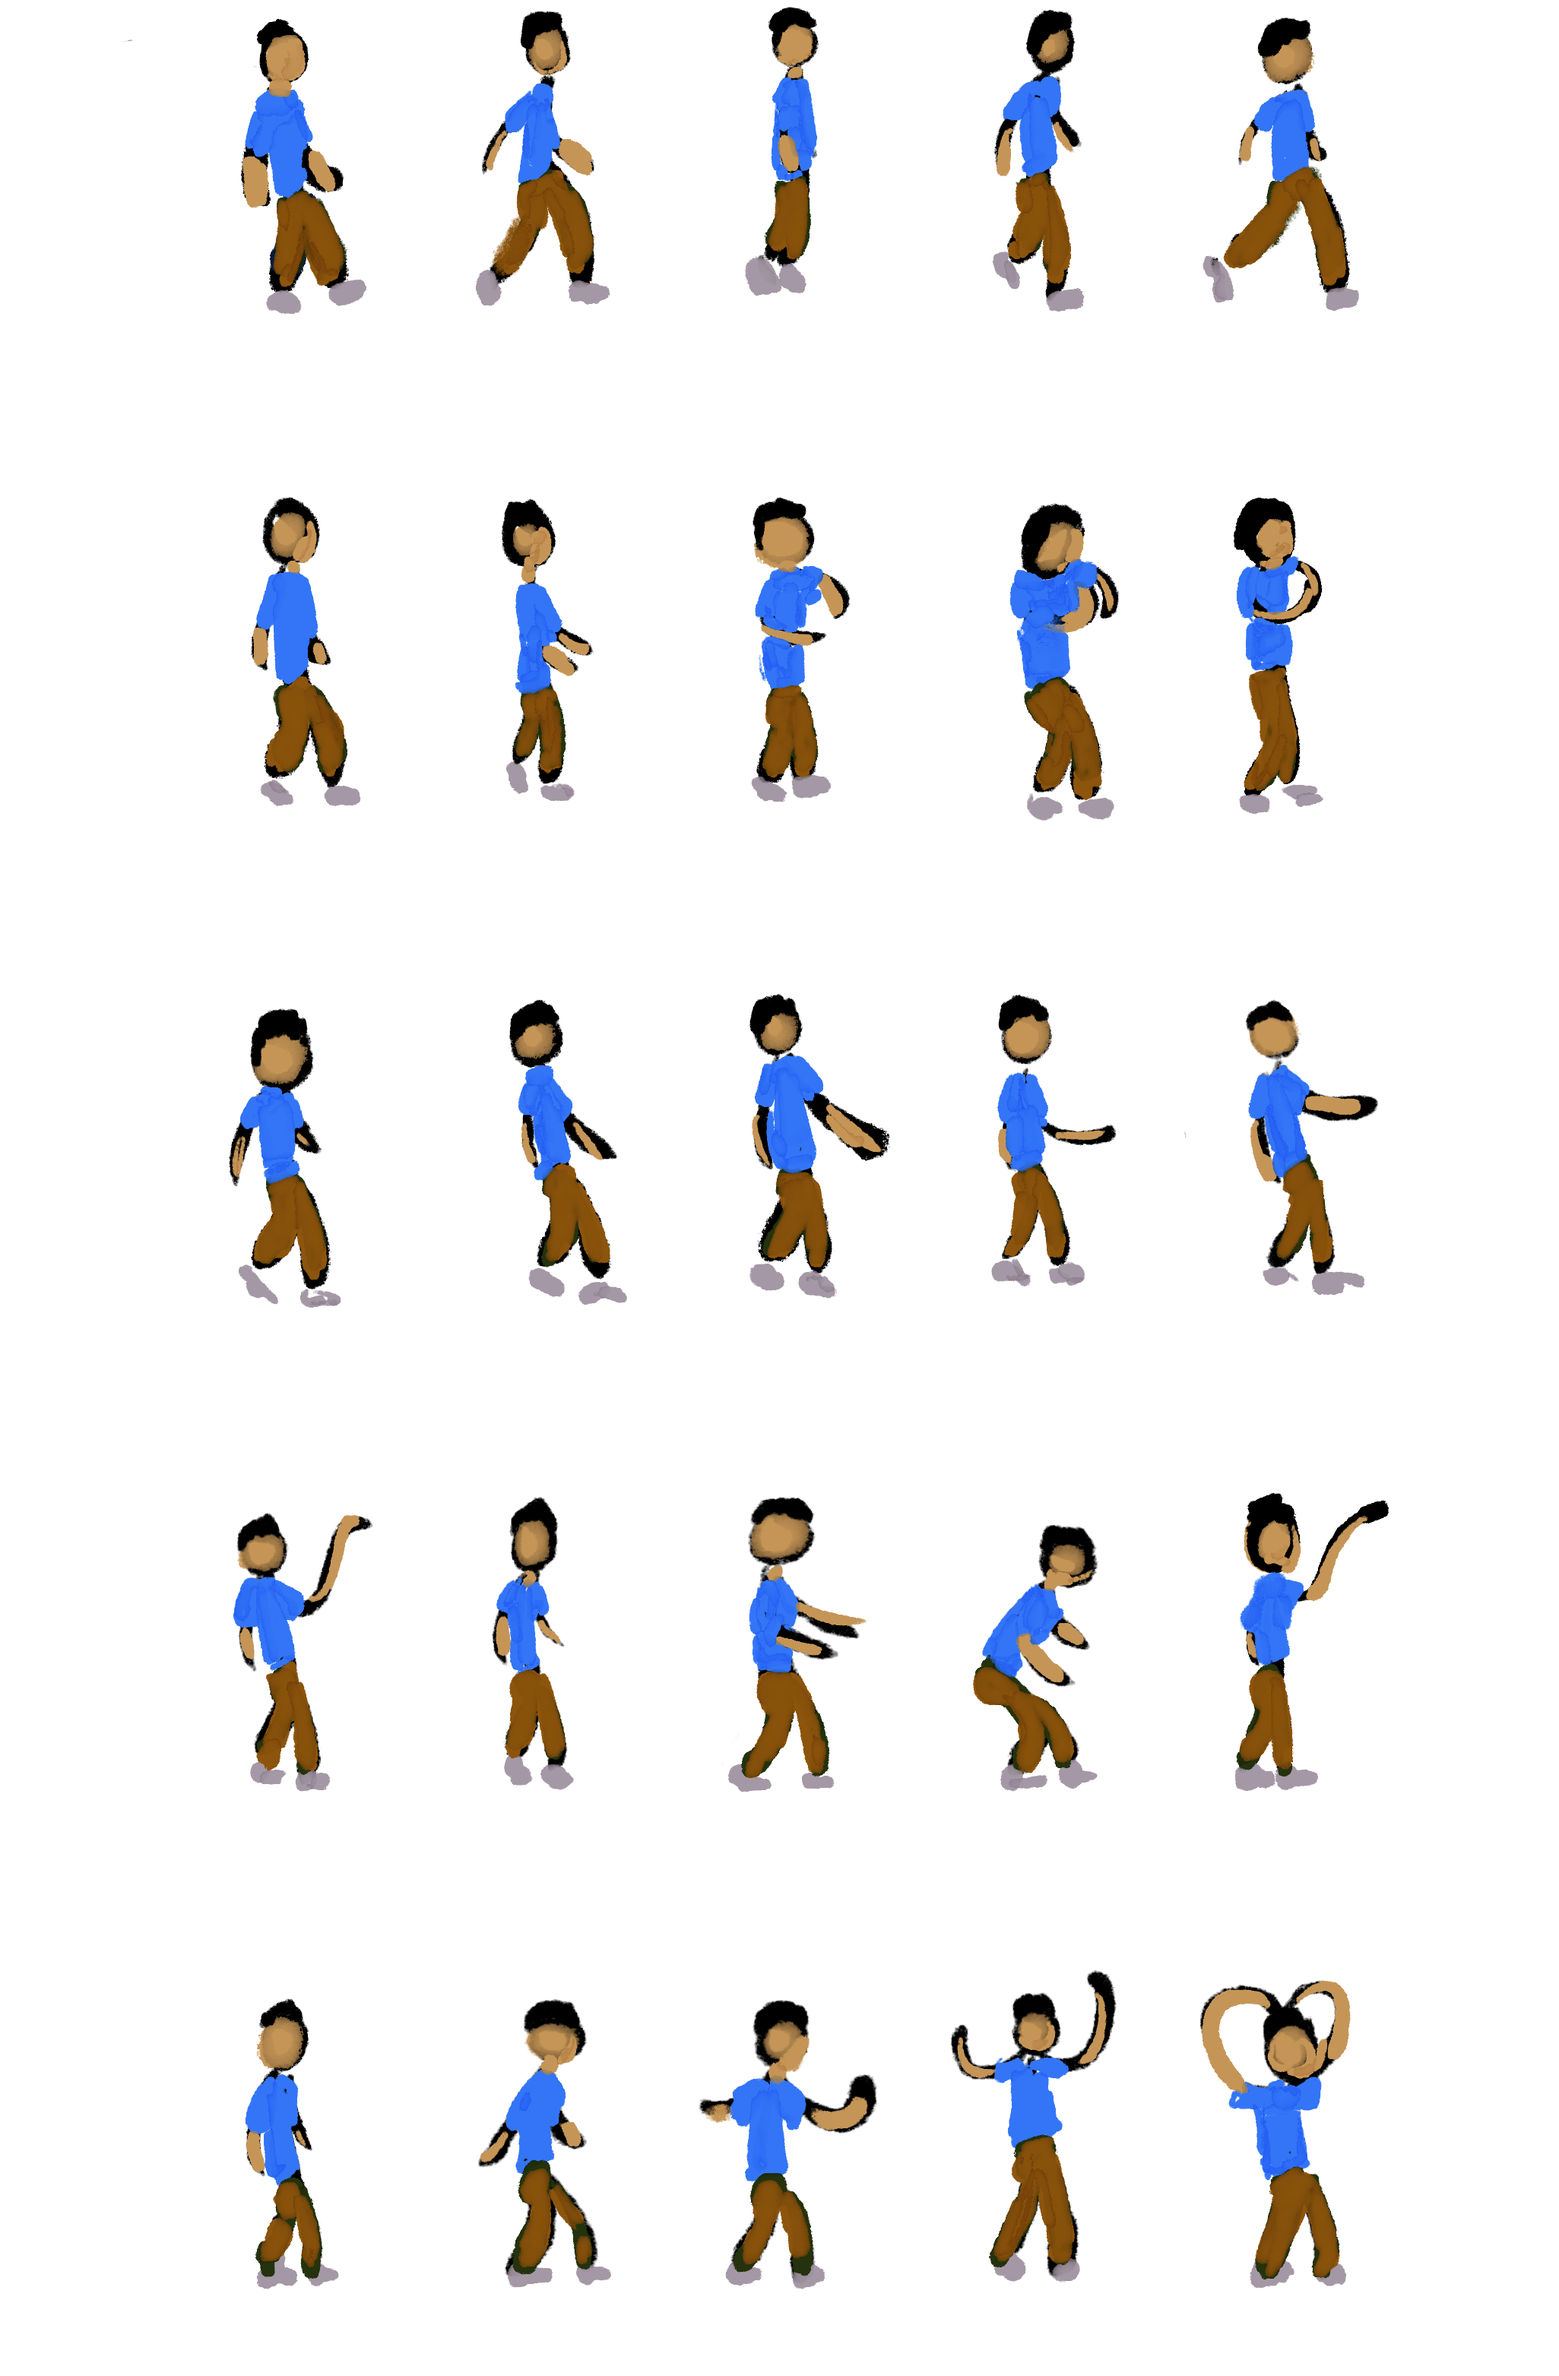
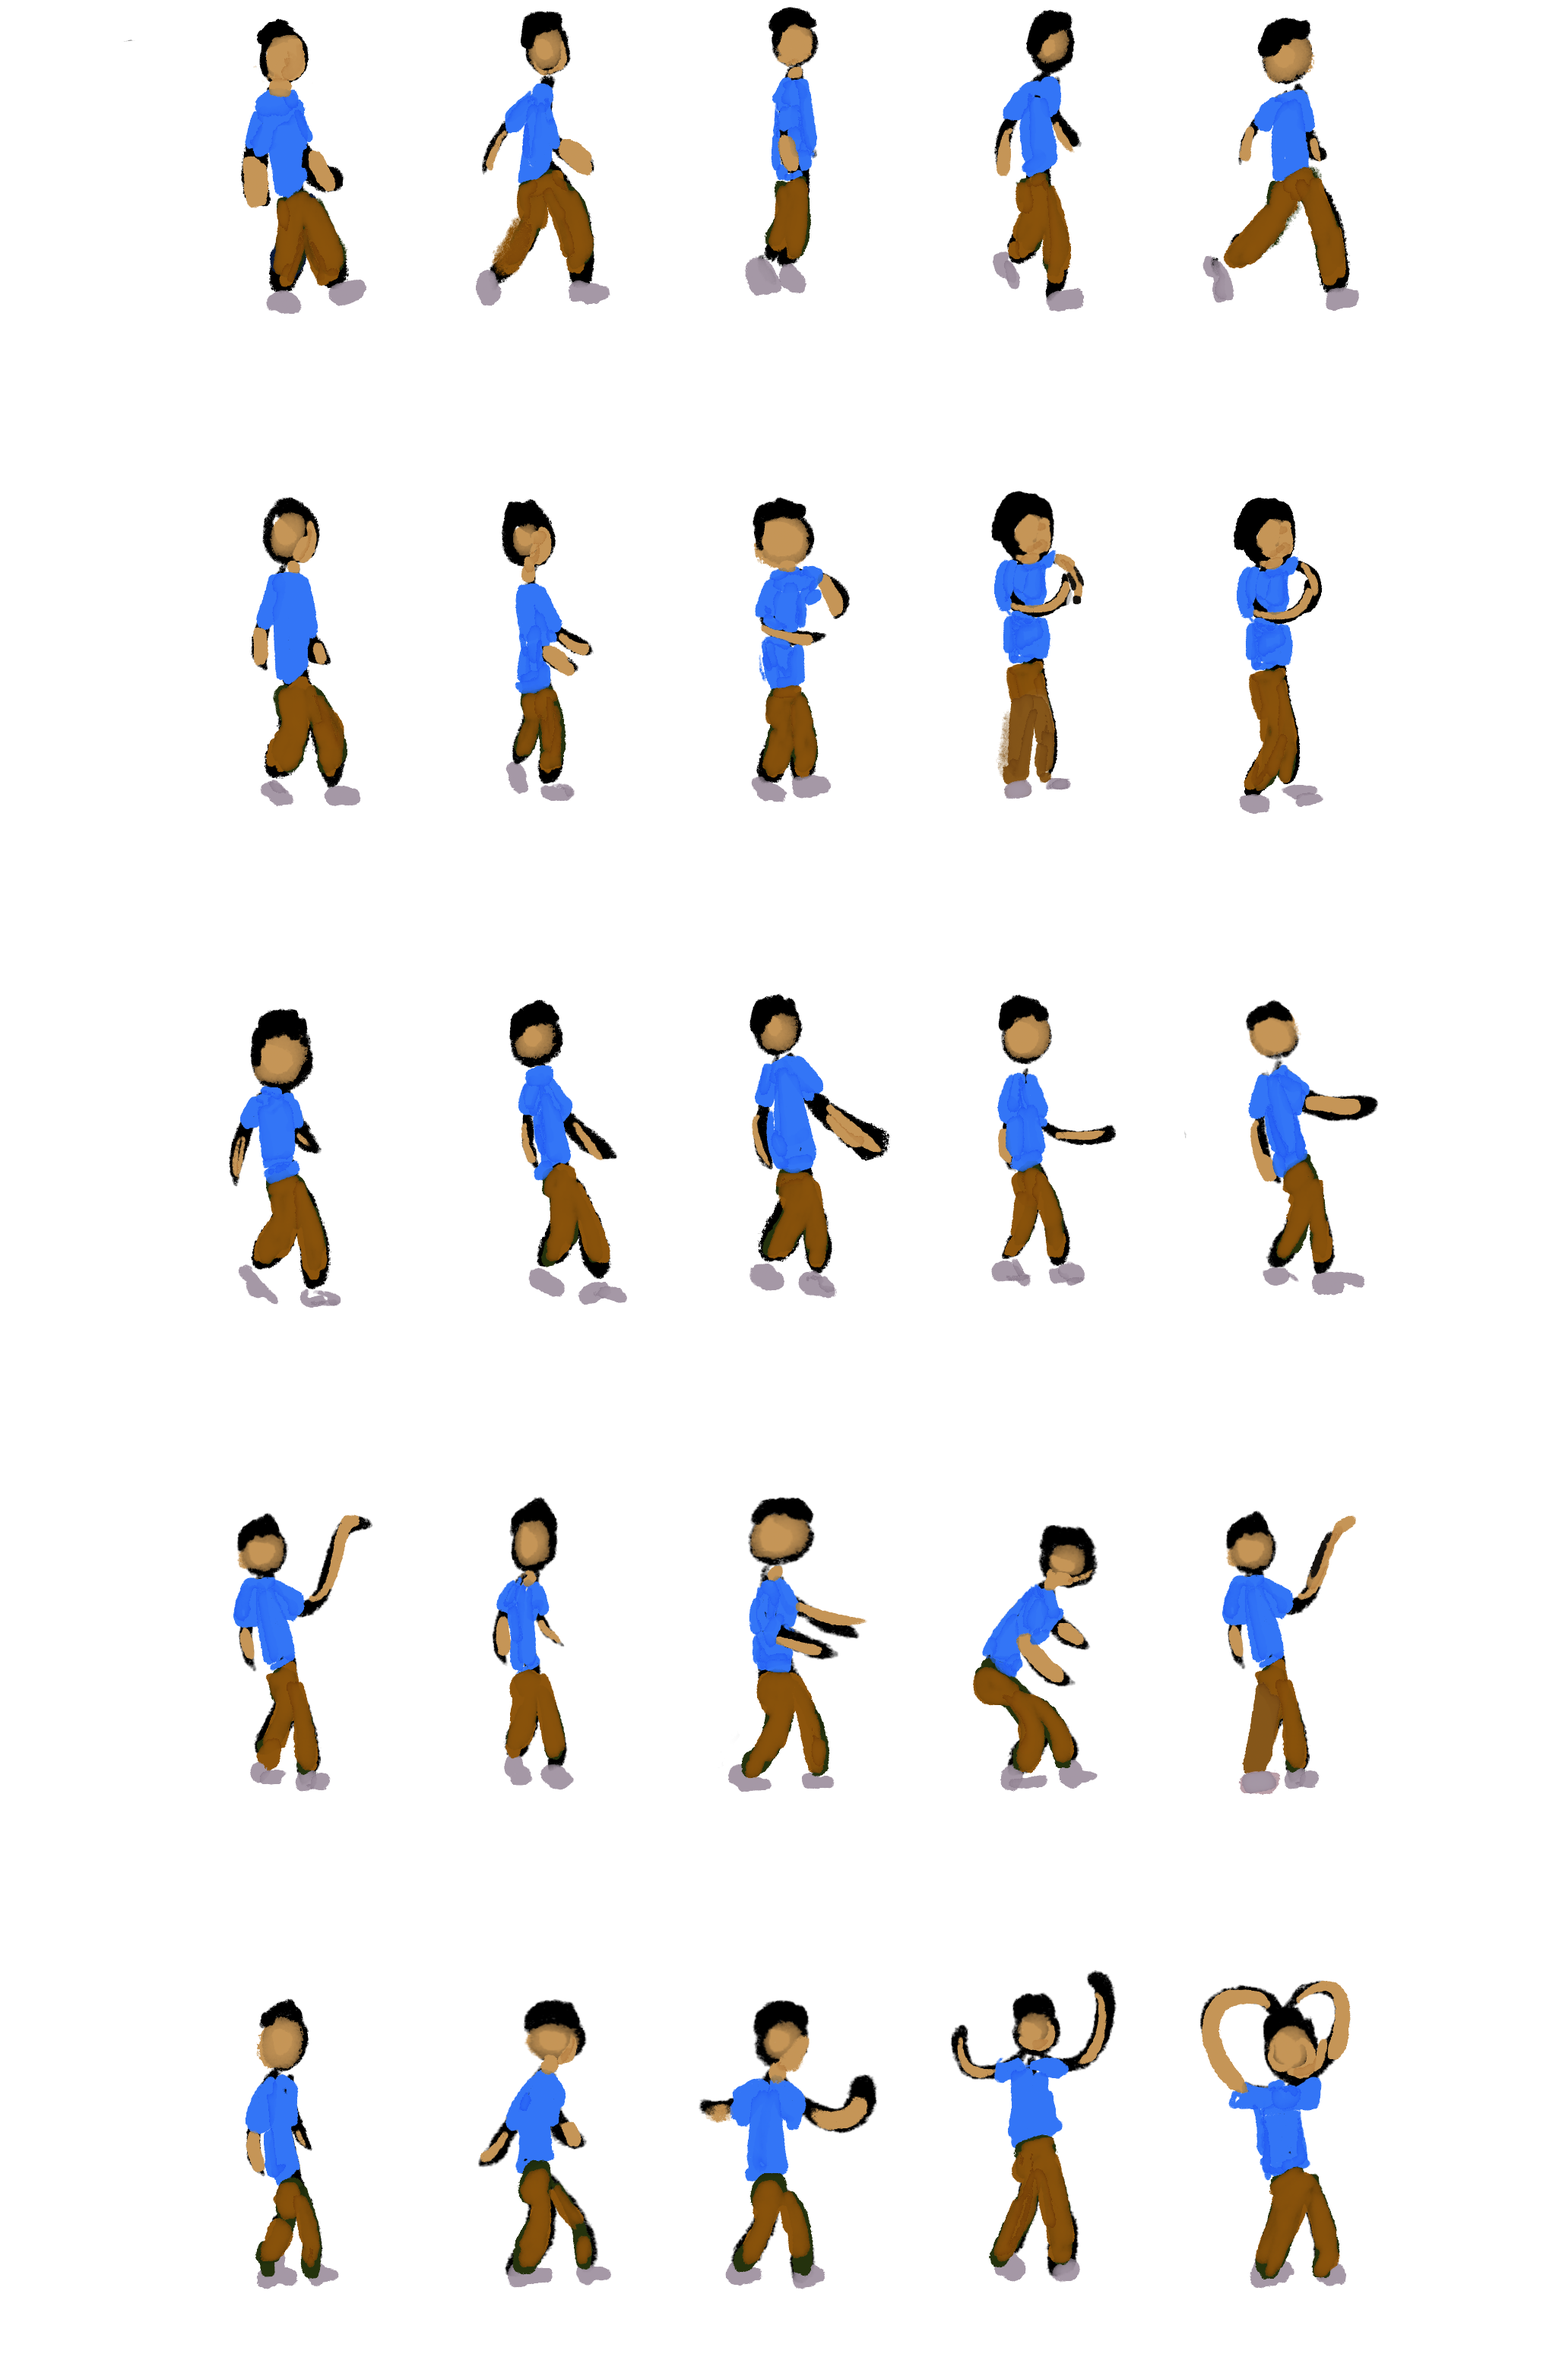
fixed sprites

Changed region(s): [[0.6241, 0.1861, 0.7177, 0.3412], [0.7801, 0.6204, 0.9049, 0.7755]]

diff --git a/app.js b/app.js
@@ -10,7 +10,7 @@
   const spriteData = {
     still: [
       [-225, -645],
-      [-225, -1290]
+      [1165, 0]
     ],
     walk: [
       [-225, -645],
@@ -29,7 +29,8 @@
     hand: [
       [-225, -1290],
       [-555, -1290],
-      [-885, -1290]
+      [-885, -1290],
+      [-1215, -1290],
     ],
     pat: [
       [-225, -1290],
